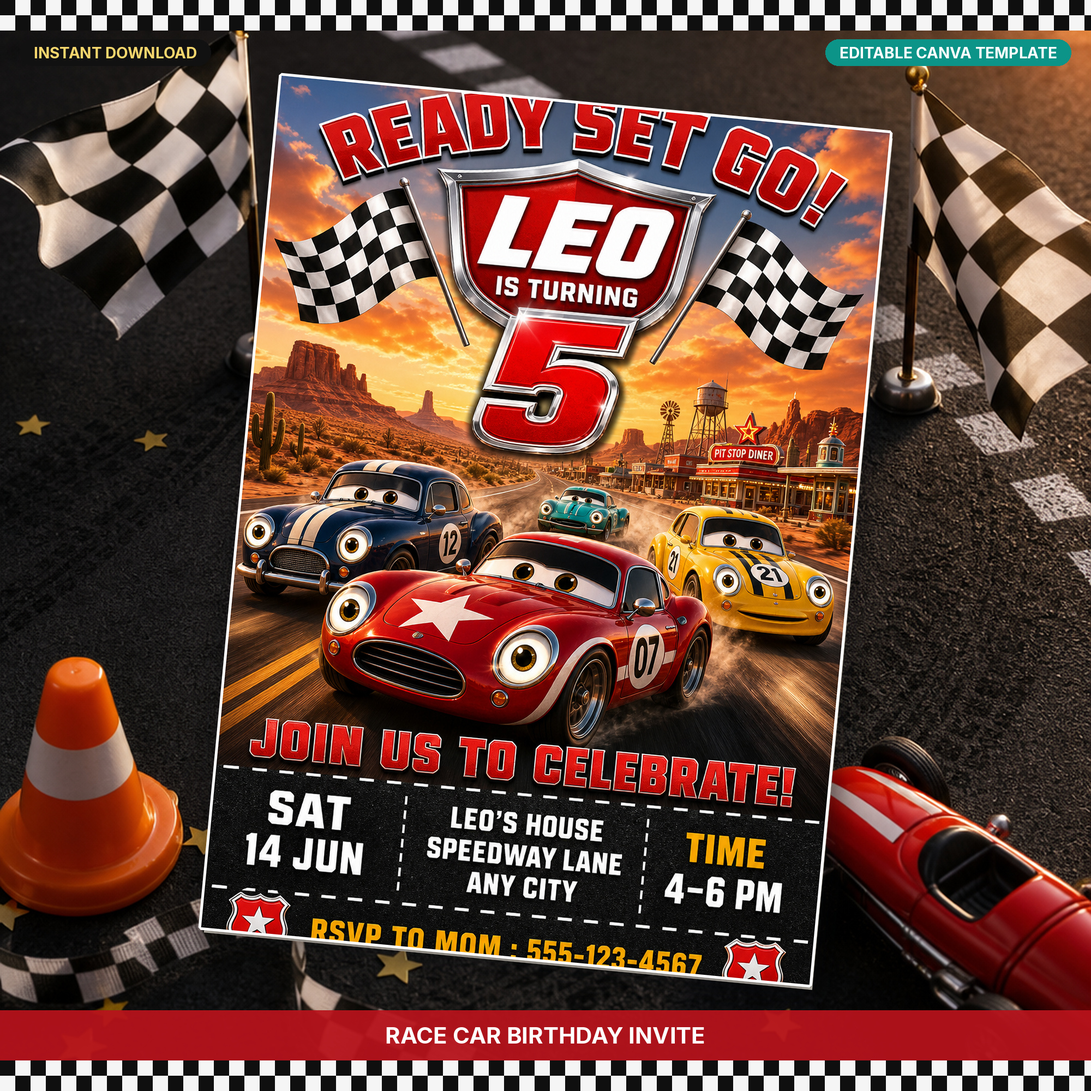
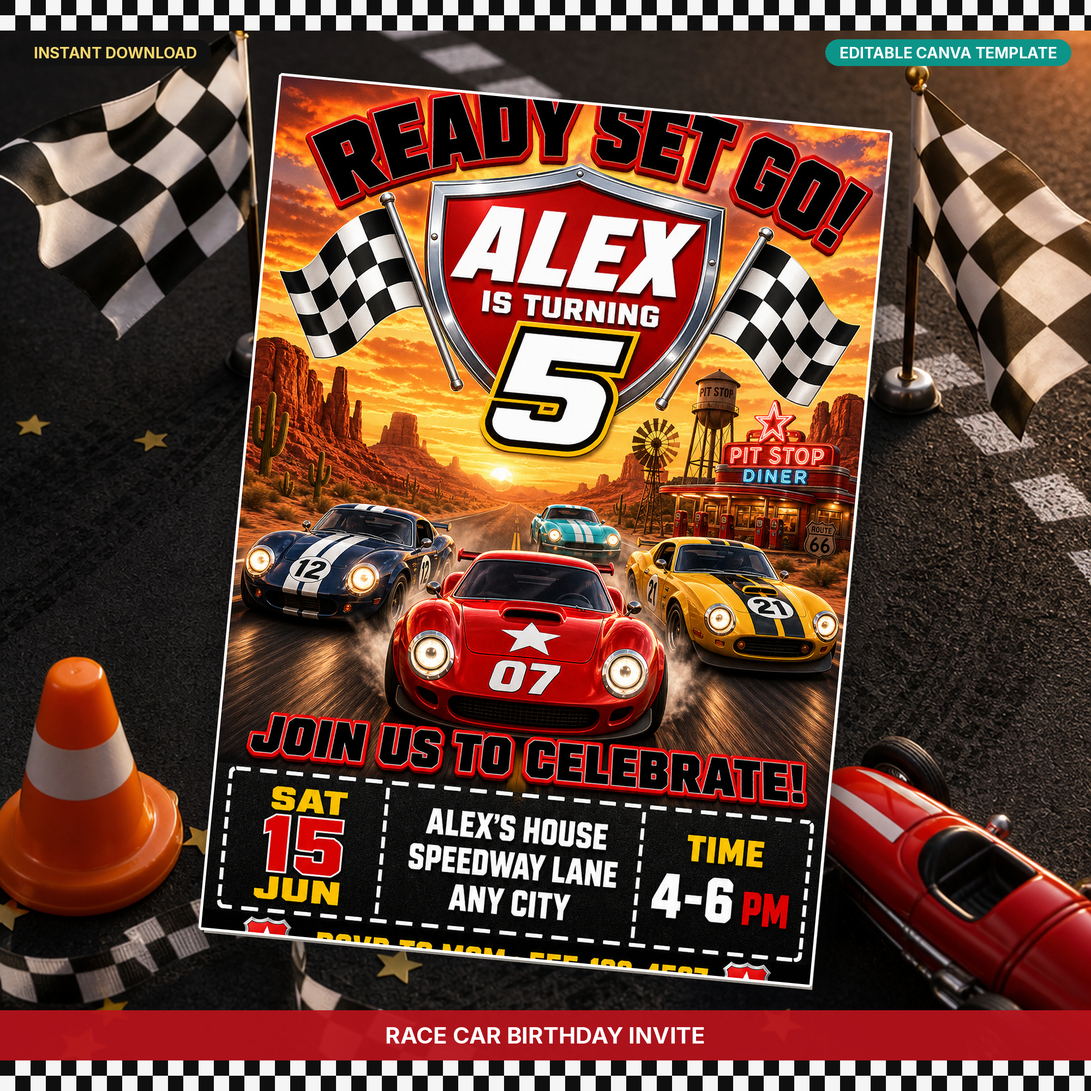
Rebuild Etsy thumbnails on the ALEX Ready Set Go card
Previous mockups used the LEO sample by mistake. Thumbnails now
composite the ALEX championship-shield invitation the listing is for.

diff --git a/invitations/listing-media/make_etsy_thumbnail.py b/invitations/listing-media/make_etsy_thumbnail.py
@@ -11,7 +11,7 @@ OUT = ROOT
 SIZE = 2000
 RATIO = 5 / 7
 
-CARD_PATH = ORIGINALS / "03-leo-ready-set-go.png"
+CARD_PATH = ORIGINALS / "alex-ready-set-go.png"
 ASPHALT = ROOT / "scene-asphalt-empty.png"
 REDFLAG = ROOT / "scene-red-flag-empty.png"
 

diff --git a/invitations/listing-media/README.md b/invitations/listing-media/README.md
@@ -1,6 +1,6 @@
 # Etsy thumbnail mockups — Ready Set Go card
 
-These composites use the **exact invitation file** (`originals/03-leo-ready-set-go.png`). They do not redraw the design.
+These composites use the **exact invitation file** (`originals/alex-ready-set-go.png` — ALEX Ready Set Go card). They do not redraw the design.
 
 Size: **2000 × 2000** (Etsy search crop)
 
